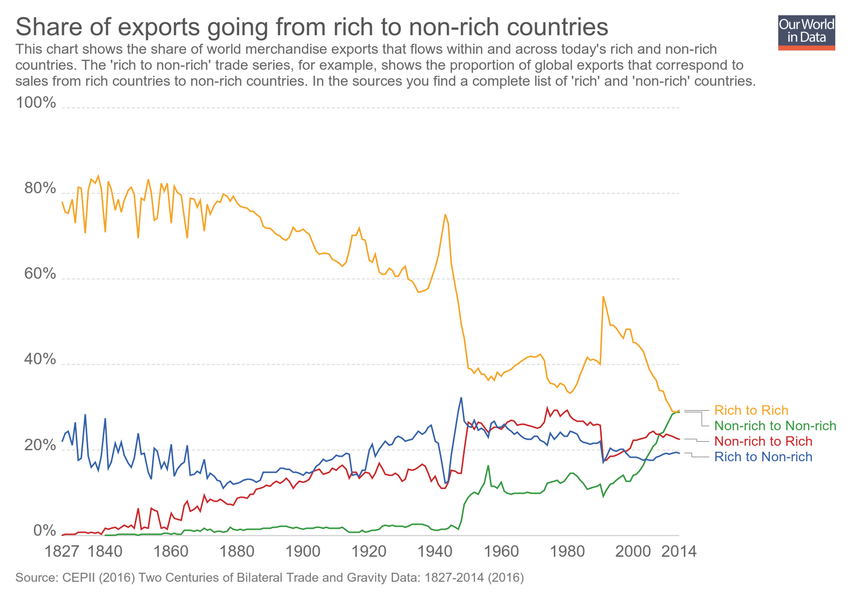
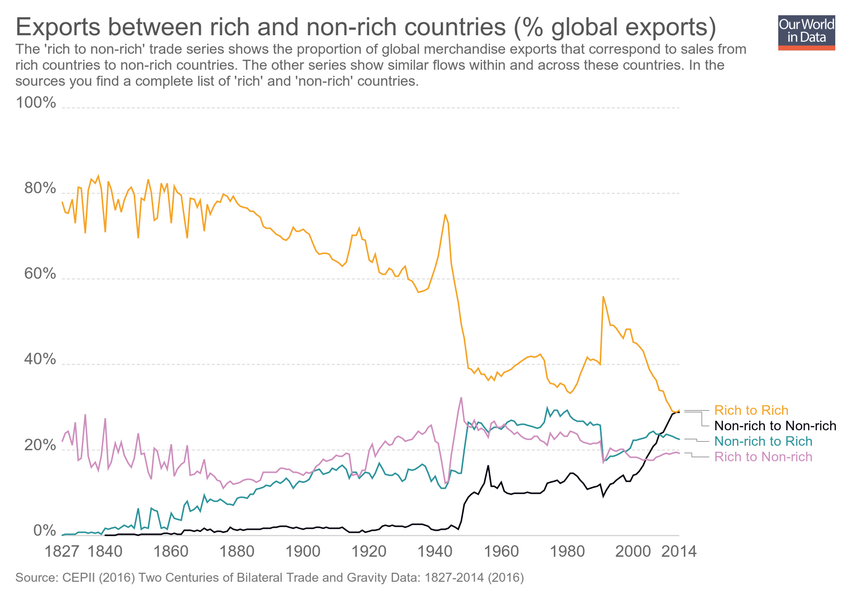
Updating chart share-of-world-merchandise-trade-by-type-of-trade-percent

diff --git a/grapher/share-of-world-merchandise-trade-by-type-of-trade-percent.html b/grapher/share-of-world-merchandise-trade-by-type-of-trade-percent.html
@@ -1,4 +1,4 @@
-<!doctype html><html><head><meta name="viewport" content="width=device-width, initial-scale=1" /><title>Share of exports going from rich to non-rich countries - Our World in Data</title><meta name="description" content="This chart shows the share of world merchandise exports that flows within and across today's rich and non-rich countries. The 'rich to non-rich' trade series, for example, shows the proportion of global exports that correspond to sales from rich countries to non-rich countries.  In the sources you find a complete list of 'rich' and 'non-rich' countries." /><link rel="canonical" href="https://ourworldindata.org/grapher/share-of-world-merchandise-trade-by-type-of-trade-percent" /><meta property="fb:app_id" content="1149943818390250" /><meta property="og:url" content="https://ourworldindata.org/grapher/share-of-world-merchandise-trade-by-type-of-trade-percent" /><meta property="og:title" content="Share of exports going from rich to non-rich countries" /><meta property="og:description" content="This chart shows the share of world merchandise exports that flows within and across today's rich and non-rich countries. The 'rich to non-rich' trade series, for example, shows the proportion of global exports that correspond to sales from rich countries to non-rich countries.  In the sources you find a complete list of 'rich' and 'non-rich' countries." /><meta property="og:image" content="https://ourworldindata.org/grapher/exports/share-of-world-merchandise-trade-by-type-of-trade-percent.png?v=10" /><meta property="og:image:width" content="850" /><meta property="og:image:height" content="600" /><meta property="og:site_name" content="Our World in Data" /><meta name="twitter:card" content="summary_large_image" /><meta name="twitter:site" content="@OurWorldInData" /><meta name="twitter:creator" content="@OurWorldInData" /><meta name="twitter:title" content="Share of exports going from rich to non-rich countries" /><meta name="twitter:description" content="This chart shows the share of world merchandise exports that flows within and across today's rich and non-rich countries. The 'rich to non-rich' trade series, for example, shows the proportion of global exports that correspond to sales from rich countries to non-rich countries.  In the sources you find a complete list of 'rich' and 'non-rich' countries." /><meta name="twitter:image" content="https://ourworldindata.org/grapher/exports/share-of-world-merchandise-trade-by-type-of-trade-percent.png?v=10" /><style>
+<!doctype html><html><head><meta name="viewport" content="width=device-width, initial-scale=1" /><title>Exports between rich and non-rich countries (% global exports) - Our World in Data</title><meta name="description" content="The 'rich to non-rich' trade series shows the proportion of global merchandise exports that correspond to sales from rich countries to non-rich countries.  The other series show similar flows within and across these countries. In the sources you find a complete list of 'rich' and 'non-rich' countries." /><link rel="canonical" href="https://ourworldindata.org/grapher/share-of-world-merchandise-trade-by-type-of-trade-percent" /><meta property="fb:app_id" content="1149943818390250" /><meta property="og:url" content="https://ourworldindata.org/grapher/share-of-world-merchandise-trade-by-type-of-trade-percent" /><meta property="og:title" content="Exports between rich and non-rich countries (% global exports)" /><meta property="og:description" content="The 'rich to non-rich' trade series shows the proportion of global merchandise exports that correspond to sales from rich countries to non-rich countries.  The other series show similar flows within and across these countries. In the sources you find a complete list of 'rich' and 'non-rich' countries." /><meta property="og:image" content="https://ourworldindata.org/grapher/exports/share-of-world-merchandise-trade-by-type-of-trade-percent.png?v=12" /><meta property="og:image:width" content="850" /><meta property="og:image:height" content="600" /><meta property="og:site_name" content="Our World in Data" /><meta name="twitter:card" content="summary_large_image" /><meta name="twitter:site" content="@OurWorldInData" /><meta name="twitter:creator" content="@OurWorldInData" /><meta name="twitter:title" content="Exports between rich and non-rich countries (% global exports)" /><meta name="twitter:description" content="The 'rich to non-rich' trade series shows the proportion of global merchandise exports that correspond to sales from rich countries to non-rich countries.  The other series show similar flows within and across these countries. In the sources you find a complete list of 'rich' and 'non-rich' countries." /><meta name="twitter:image" content="https://ourworldindata.org/grapher/exports/share-of-world-merchandise-trade-by-type-of-trade-percent.png?v=12" /><style>
         html, body {
             height: 100%;
             margin: 0;
@@ -20,8 +20,8 @@
         }
     </style><noscript><style>
                     figure { display: none !important; }
-                </style></noscript><link rel="stylesheet" href="https://ourworldindata.org/grapher/assets/commons.bundle.521782e703f0fe72f108.css" /><link rel="preload" href="/grapher/data/variables/97468+97467+97466+97465.json?v=10" as="fetch" crossorigin /></head><body class="singleChart"><figure data-grapher-src="/grapher/share-of-world-merchandise-trade-by-type-of-trade-percent"></figure><noscript id="fallback"><img src="/grapher/exports/share-of-world-merchandise-trade-by-type-of-trade-percent.svg" /><p>Interactive visualization requires JavaScript</p></noscript><script src="https://cdn.polyfill.io/v2/polyfill.min.js?features=es6,fetch"></script><script src="https://ourworldindata.org/grapher/assets/commons.bundle.521782e703f0fe72f108.js"></script><script src="https://ourworldindata.org/grapher/assets/charts.bundle.521782e703f0fe72f108.js"></script><script>
-        var jsonConfig = {"id":2662,"map":{"projection":"World","colorSchemeLabels":[],"colorSchemeValues":[],"customNumericColors":[],"customCategoryColors":{},"customCategoryLabels":{},"customHiddenCategories":{}},"tab":"chart","slug":"share-of-world-merchandise-trade-by-type-of-trade-percent","type":"LineChart","title":"Share of exports going from rich to non-rich countries","xAxis":{"scaleType":"linear"},"yAxis":{"max":100,"min":0,"scaleType":"linear"},"version":10,"subtitle":"This chart shows the share of world merchandise exports that flows within and across today's rich and non-rich countries. The 'rich to non-rich' trade series, for example, shows the proportion of global exports that correspond to sales from rich countries to non-rich countries.  In the sources you find a complete list of 'rich' and 'non-rich' countries.","hasMapTab":false,"stackMode":"absolute","dimensions":[{"display":{"name":"Non-rich to Non-rich"},"property":"y","variableId":97468},{"display":{"name":"Non-rich to Rich"},"property":"y","variableId":97467},{"display":{"name":"Rich to Non-rich"},"property":"y","variableId":97466},{"display":{"name":"Rich to Rich"},"property":"y","variableId":97465}],"hasChartTab":true,"isPublished":true,"selectedData":[{"index":0,"entityId":355},{"index":1,"entityId":355},{"index":2,"entityId":355},{"index":3,"entityId":355}],"addCountryMode":"change-country","hideRelativeToggle":true,"hideTitleAnnotation":true};
+                </style></noscript><link rel="stylesheet" href="https://ourworldindata.org/grapher/assets/commons.bundle.521782e703f0fe72f108.css" /><link rel="preload" href="/grapher/data/variables/97468+97467+97466+97465.json?v=12" as="fetch" crossorigin /></head><body class="singleChart"><figure data-grapher-src="/grapher/share-of-world-merchandise-trade-by-type-of-trade-percent"></figure><noscript id="fallback"><img src="/grapher/exports/share-of-world-merchandise-trade-by-type-of-trade-percent.svg" /><p>Interactive visualization requires JavaScript</p></noscript><script src="https://cdn.polyfill.io/v2/polyfill.min.js?features=es6,fetch"></script><script src="https://ourworldindata.org/grapher/assets/commons.bundle.521782e703f0fe72f108.js"></script><script src="https://ourworldindata.org/grapher/assets/charts.bundle.521782e703f0fe72f108.js"></script><script>
+        var jsonConfig = {"id":2662,"map":{"projection":"World","colorSchemeLabels":[],"colorSchemeValues":[],"customNumericColors":[],"customCategoryColors":{},"customCategoryLabels":{},"customHiddenCategories":{}},"tab":"chart","slug":"share-of-world-merchandise-trade-by-type-of-trade-percent","type":"LineChart","title":"Exports between rich and non-rich countries (% global exports)","xAxis":{"scaleType":"linear"},"yAxis":{"max":100,"min":0,"scaleType":"linear"},"version":12,"subtitle":"The 'rich to non-rich' trade series shows the proportion of global merchandise exports that correspond to sales from rich countries to non-rich countries.  The other series show similar flows within and across these countries. In the sources you find a complete list of 'rich' and 'non-rich' countries.","hasMapTab":false,"stackMode":"absolute","dimensions":[{"display":{"name":"Non-rich to Non-rich"},"property":"y","variableId":97468},{"display":{"name":"Non-rich to Rich"},"property":"y","variableId":97467},{"display":{"name":"Rich to Non-rich"},"property":"y","variableId":97466},{"display":{"name":"Rich to Rich"},"property":"y","variableId":97465}],"hasChartTab":true,"isPublished":true,"selectedData":[{"color":"#03000c","index":0,"entityId":355},{"color":"#2a939b","index":1,"entityId":355},{"color":"#ce8ebd","index":2,"entityId":355},{"color":"#f6a324","index":3,"entityId":355}],"addCountryMode":"change-country","hideRelativeToggle":true,"hideTitleAnnotation":true};
         var figure = document.getElementsByTagName("figure")[0];
         try {
             window.App = {};
